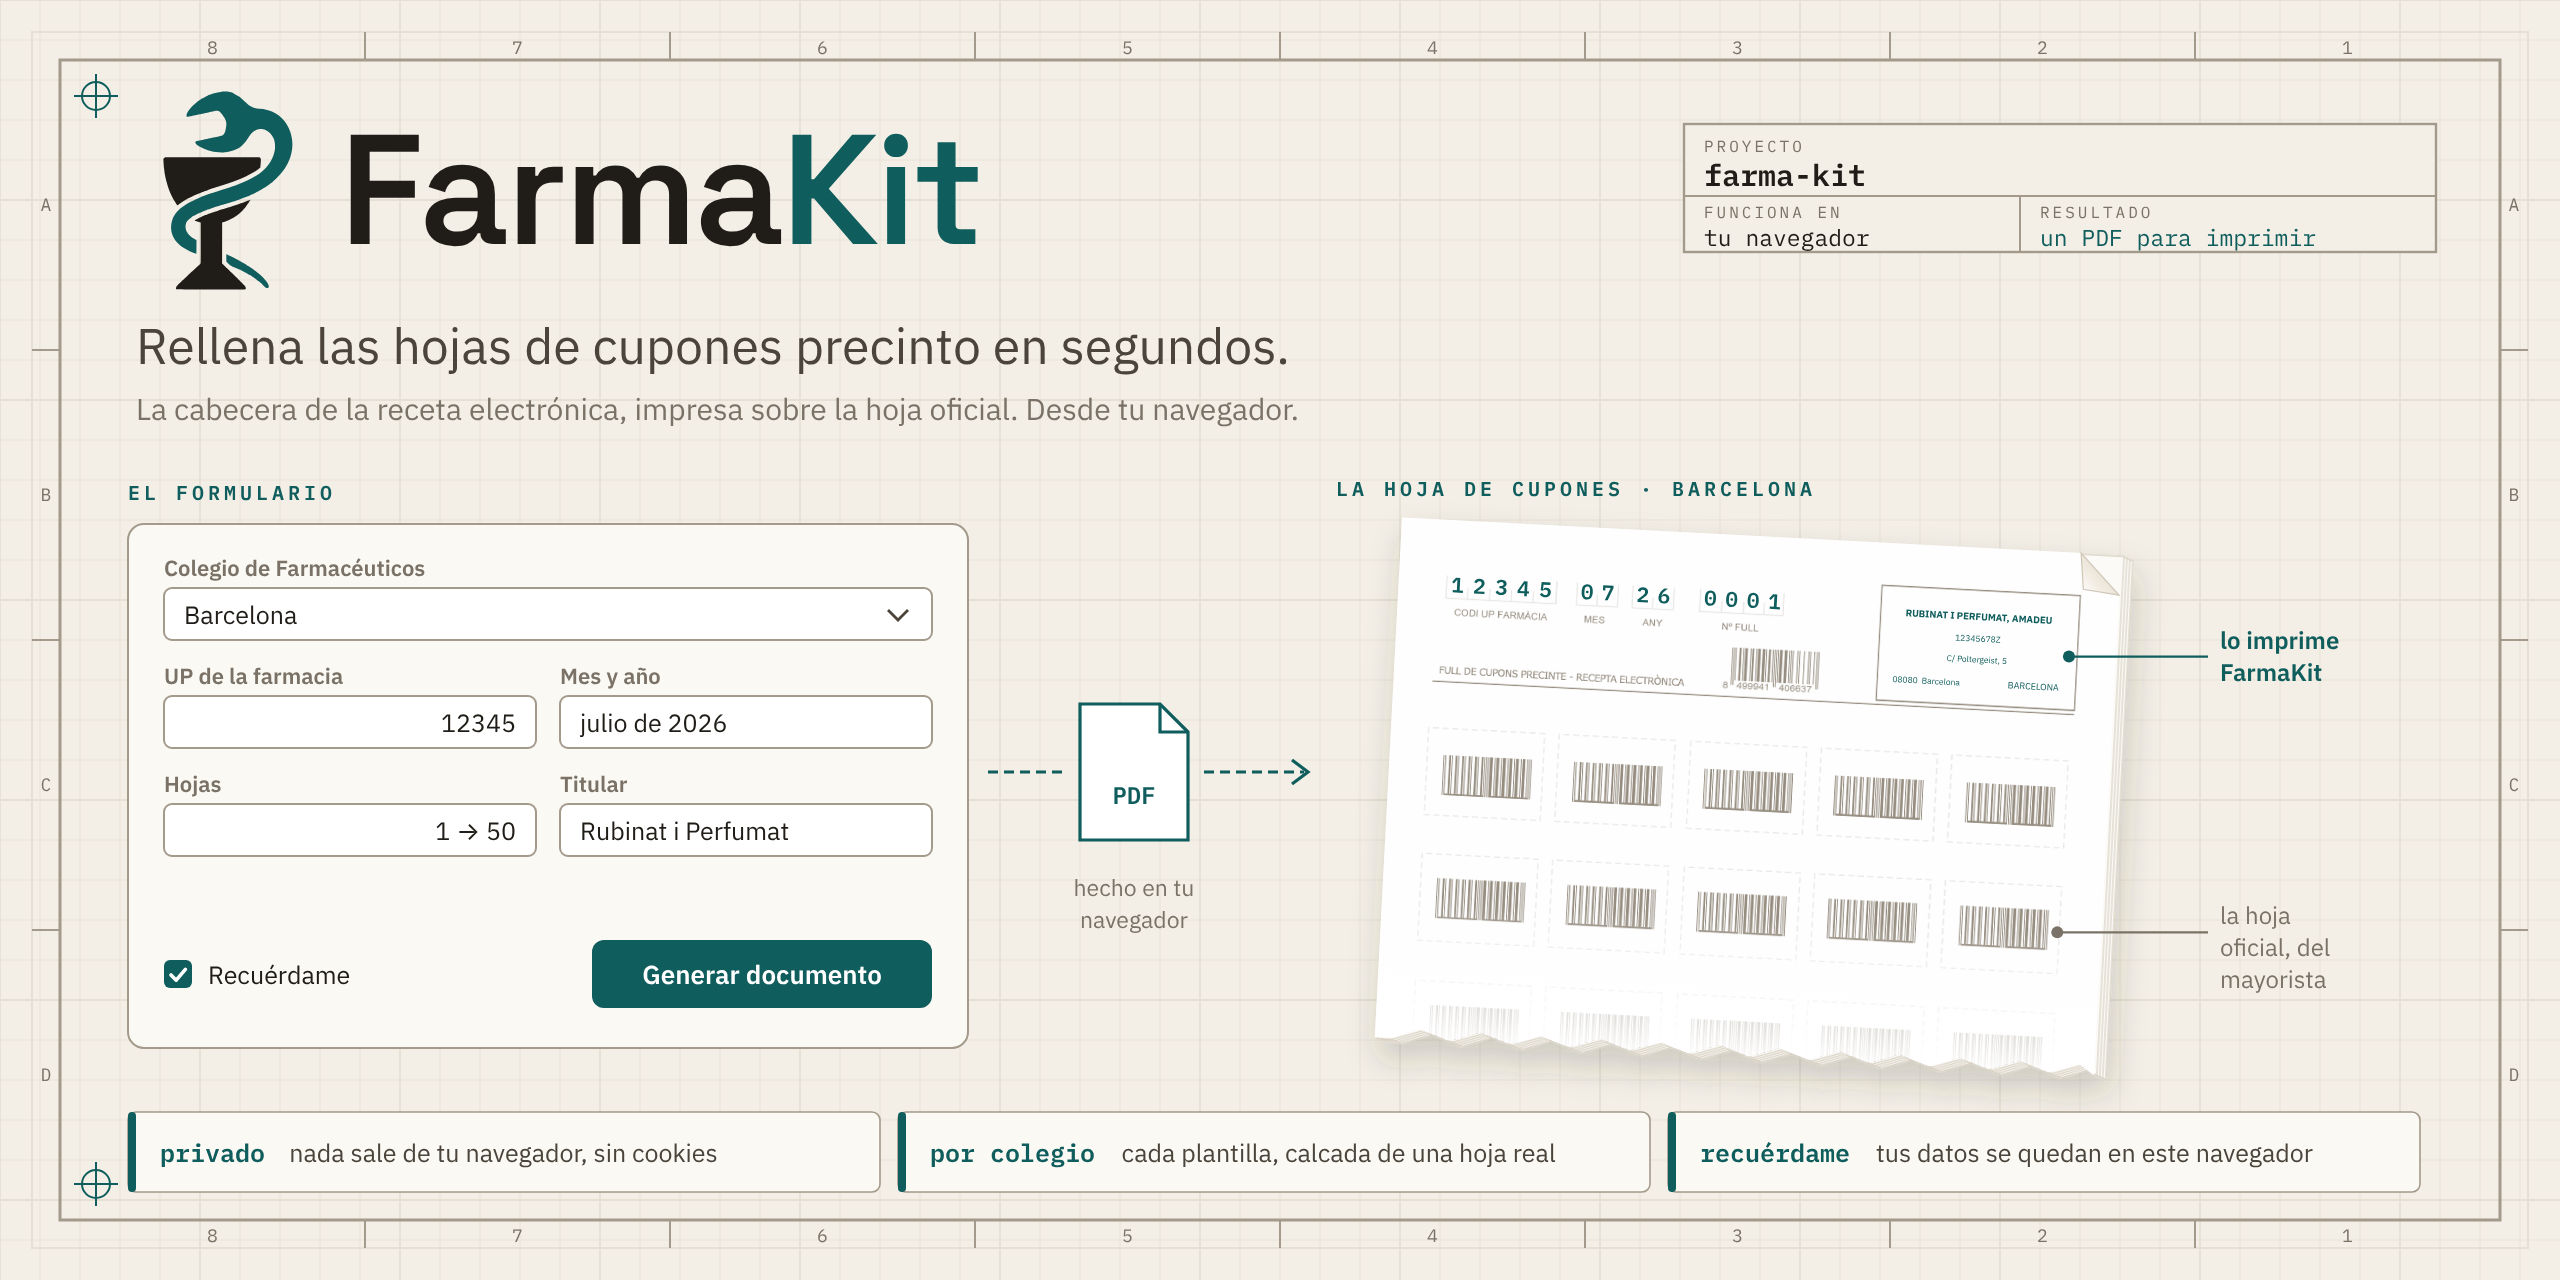
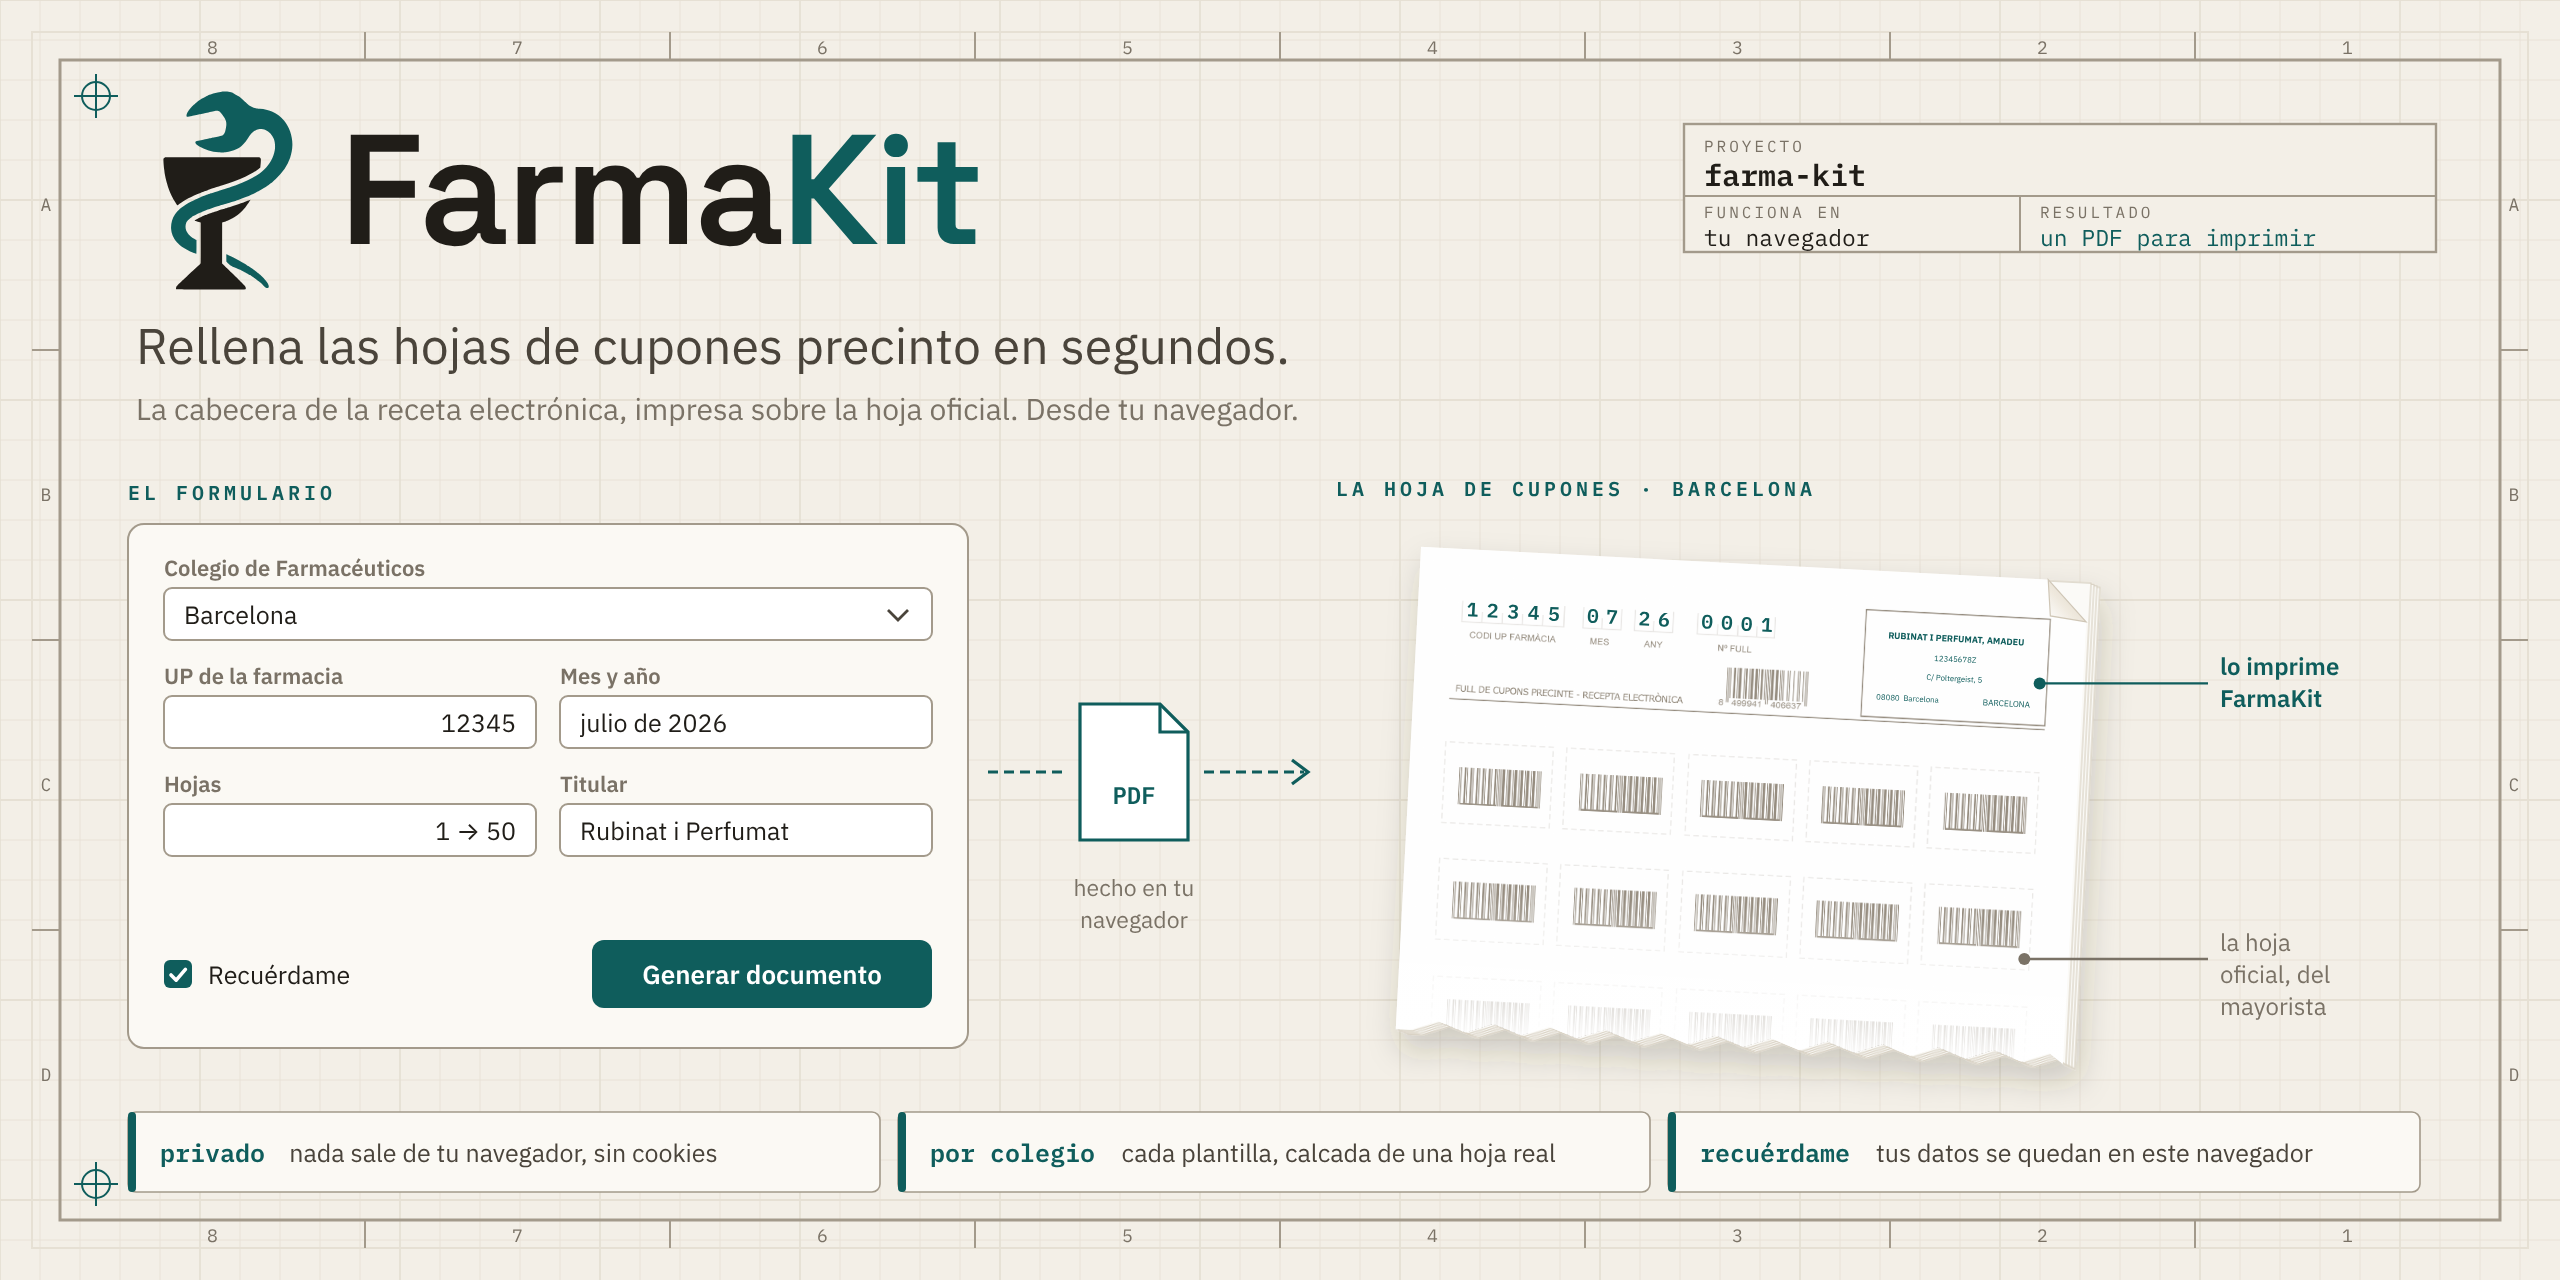
docs(hero): more room between the caption and the sheet
Claude-Session: https://claude.ai/code/session_01QwsxTccJpZ6TMCY29idEh5

Changed region(s): [[0.5312, 0.4062, 0.9062, 0.8438]]

diff --git a/tools/hero.py b/tools/hero.py
@@ -336,7 +336,7 @@ def torn(x: float, y: float, w: float, h: float, curl: float) -> str:
 
 def sheets() -> list[str]:
     """A pad of coupon sheets on the desk, tilted; the top sheet is cut short."""
-    x, y, w = 694, 268, 360
+    x, y, w = 704, 282, 334
     data, pw, ph = tinted_sheet()
     k = w / 594.96  # PDF points to sheet pixels on the hero
     h = w * ph / pw
